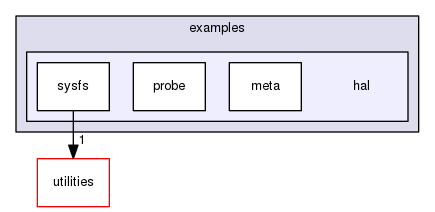
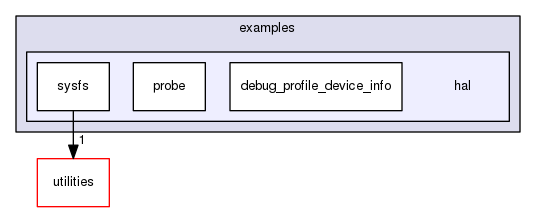
rename meta example

diff --git a/docs/html/debug__profile__device__info_2main_8cpp.html b/docs/html/debug__profile__device__info_2main_8cpp.html
@@ -1,0 +1,162 @@
+<!DOCTYPE html PUBLIC "-//W3C//DTD XHTML 1.0 Transitional//EN" "http://www.w3.org/TR/xhtml1/DTD/xhtml1-transitional.dtd">
+<html xmlns="http://www.w3.org/1999/xhtml">
+<head>
+<meta http-equiv="Content-Type" content="text/xhtml;charset=UTF-8"/>
+<meta http-equiv="X-UA-Compatible" content="IE=9"/>
+<meta name="generator" content="Doxygen 1.8.11"/>
+<title>xdev: xdev/dev/xrt/examples/hal/debug_profile_device_info/main.cpp File Reference</title>
+<link href="tabs.css" rel="stylesheet" type="text/css"/>
+<script type="text/javascript" src="jquery.js"></script>
+<script type="text/javascript" src="dynsections.js"></script>
+<link href="search/search.css" rel="stylesheet" type="text/css"/>
+<script type="text/javascript" src="search/searchdata.js"></script>
+<script type="text/javascript" src="search/search.js"></script>
+<script type="text/javascript">
+  $(document).ready(function() { init_search(); });
+</script>
+<link href="doxygen.css" rel="stylesheet" type="text/css" />
+</head>
+<body>
+<div id="top"><!-- do not remove this div, it is closed by doxygen! -->
+<div id="titlearea">
+<table cellspacing="0" cellpadding="0">
+ <tbody>
+ <tr style="height: 56px;">
+  <td id="projectalign" style="padding-left: 0.5em;">
+   <div id="projectname">xdev
+   </div>
+  </td>
+ </tr>
+ </tbody>
+</table>
+</div>
+<!-- end header part -->
+<!-- Generated by Doxygen 1.8.11 -->
+<script type="text/javascript">
+var searchBox = new SearchBox("searchBox", "search",false,'Search');
+</script>
+  <div id="navrow1" class="tabs">
+    <ul class="tablist">
+      <li><a href="index.html"><span>Main&#160;Page</span></a></li>
+      <li class="current"><a href="files.html"><span>Files</span></a></li>
+      <li>
+        <div id="MSearchBox" class="MSearchBoxInactive">
+        <span class="left">
+          <img id="MSearchSelect" src="search/mag_sel.png"
+               onmouseover="return searchBox.OnSearchSelectShow()"
+               onmouseout="return searchBox.OnSearchSelectHide()"
+               alt=""/>
+          <input type="text" id="MSearchField" value="Search" accesskey="S"
+               onfocus="searchBox.OnSearchFieldFocus(true)" 
+               onblur="searchBox.OnSearchFieldFocus(false)" 
+               onkeyup="searchBox.OnSearchFieldChange(event)"/>
+          </span><span class="right">
+            <a id="MSearchClose" href="javascript:searchBox.CloseResultsWindow()"><img id="MSearchCloseImg" border="0" src="search/close.png" alt=""/></a>
+          </span>
+        </div>
+      </li>
+    </ul>
+  </div>
+  <div id="navrow2" class="tabs2">
+    <ul class="tablist">
+      <li><a href="files.html"><span>File&#160;List</span></a></li>
+      <li><a href="globals.html"><span>File&#160;Members</span></a></li>
+    </ul>
+  </div>
+<!-- window showing the filter options -->
+<div id="MSearchSelectWindow"
+     onmouseover="return searchBox.OnSearchSelectShow()"
+     onmouseout="return searchBox.OnSearchSelectHide()"
+     onkeydown="return searchBox.OnSearchSelectKey(event)">
+</div>
+
+<!-- iframe showing the search results (closed by default) -->
+<div id="MSearchResultsWindow">
+<iframe src="javascript:void(0)" frameborder="0" 
+        name="MSearchResults" id="MSearchResults">
+</iframe>
+</div>
+
+<div id="nav-path" class="navpath">
+  <ul>
+<li class="navelem"><a class="el" href="dir_d18afa9345f000f65ca1f65ff9bd6be2.html">xdev</a></li><li class="navelem"><a class="el" href="dir_9e41302a9f2ea061056861038e396dc2.html">dev</a></li><li class="navelem"><a class="el" href="dir_d0d060ddee06a0444c00c06d57c50174.html">xrt</a></li><li class="navelem"><a class="el" href="dir_a0d88962fda9ae0239c619ad3390706e.html">examples</a></li><li class="navelem"><a class="el" href="dir_4b5d70dd59c81fb7f13f1c81ec266a14.html">hal</a></li><li class="navelem"><a class="el" href="dir_dec56c6a80e9fbcd27e4988ce258e305.html">debug_profile_device_info</a></li>  </ul>
+</div>
+</div><!-- top -->
+<div class="header">
+  <div class="summary">
+<a href="#func-members">Functions</a>  </div>
+  <div class="headertitle">
+<div class="title">main.cpp File Reference</div>  </div>
+</div><!--header-->
+<div class="contents">
+<div class="textblock"><code>#include &quot;xclhal2.h&quot;</code><br />
+<code>#include &quot;xclperf.h&quot;</code><br />
+<code>#include &quot;easylogging++.h&quot;</code><br />
+<code>#include &lt;iostream&gt;</code><br />
+</div><div class="textblock"><div class="dynheader">
+Include dependency graph for main.cpp:</div>
+<div class="dyncontent">
+<div class="center"><img src="debug__profile__device__info_2main_8cpp__incl.png" border="0" usemap="#xdev_2dev_2xrt_2examples_2hal_2debug__profile__device__info_2main_8cpp" alt=""/></div>
+<map name="xdev_2dev_2xrt_2examples_2hal_2debug__profile__device__info_2main_8cpp" id="xdev_2dev_2xrt_2examples_2hal_2debug__profile__device__info_2main_8cpp">
+</map>
+</div>
+</div><table class="memberdecls">
+<tr class="heading"><td colspan="2"><h2 class="groupheader"><a name="func-members"></a>
+Functions</h2></td></tr>
+<tr class="memitem:a0ddf1224851353fc92bfbff6f499fa97"><td class="memItemLeft" align="right" valign="top">int&#160;</td><td class="memItemRight" valign="bottom"><a class="el" href="debug__profile__device__info_2main_8cpp.html#a0ddf1224851353fc92bfbff6f499fa97">main</a> (int argc, char *argv[])</td></tr>
+<tr class="separator:a0ddf1224851353fc92bfbff6f499fa97"><td class="memSeparator" colspan="2">&#160;</td></tr>
+</table>
+<h2 class="groupheader">Function Documentation</h2>
+<a class="anchor" id="a0ddf1224851353fc92bfbff6f499fa97"></a>
+<div class="memitem">
+<div class="memproto">
+      <table class="memname">
+        <tr>
+          <td class="memname">int main </td>
+          <td>(</td>
+          <td class="paramtype">int&#160;</td>
+          <td class="paramname"><em>argc</em>, </td>
+        </tr>
+        <tr>
+          <td class="paramkey"></td>
+          <td></td>
+          <td class="paramtype">char *&#160;</td>
+          <td class="paramname"><em>argv</em>[]&#160;</td>
+        </tr>
+        <tr>
+          <td></td>
+          <td>)</td>
+          <td></td><td></td>
+        </tr>
+      </table>
+</div><div class="memdoc">
+<h1><a class="anchor" id="main"></a>
+Debug &amp; Profile Device Info API demo</h1>
+<dl class="section author"><dt>Author</dt><dd>Tianhao Zhou</dd></dl>
+<dl class="section date"><dt>Date</dt><dd>1/2/2019</dd></dl>
+<dl class="section version"><dt>Version</dt><dd>dev</dd></dl>
+<h2><a class="anchor" id="intro"></a>
+Introduction</h2>
+<p>This code snipet uses xclGetDebugProfileDeviceInfo with minimum amount of other APIs, making it a good tool for developing and debugging the API.</p>
+<h2><a class="anchor" id="steps"></a>
+Steps</h2>
+<ol type="1">
+<li>Probe</li>
+<li>Open 1 device at a time</li>
+<li>Get debug profile device info</li>
+<li>Print the info</li>
+<li>Close device </li>
+</ol>
+<dl class="section note"><dt>Note</dt><dd>START_EASYLOGGINGPP is the entry point to easyloggingpp which should be called only once before any logging</dd></dl>
+
+</div>
+</div>
+</div><!-- contents -->
+<!-- start footer part -->
+<hr class="footer"/><address class="footer"><small>
+Generated by &#160;<a href="http://www.doxygen.org/index.html">
+<img class="footer" src="doxygen.png" alt="doxygen"/>
+</a> 1.8.11
+</small></address>
+</body>
+</html>

diff --git a/docs/html/dir_dec56c6a80e9fbcd27e4988ce258e305.html b/docs/html/dir_dec56c6a80e9fbcd27e4988ce258e305.html
@@ -4,7 +4,7 @@
 <meta http-equiv="Content-Type" content="text/xhtml;charset=UTF-8"/>
 <meta http-equiv="X-UA-Compatible" content="IE=9"/>
 <meta name="generator" content="Doxygen 1.8.11"/>
-<title>xdev: File Members</title>
+<title>xdev: xdev/dev/xrt/examples/hal/debug_profile_device_info Directory Reference</title>
 <link href="tabs.css" rel="stylesheet" type="text/css"/>
 <script type="text/javascript" src="jquery.js"></script>
 <script type="text/javascript" src="dynsections.js"></script>
@@ -59,18 +59,10 @@ var searchBox = new SearchBox("searchBox", "search",false,'Search');
   </div>
   <div id="navrow2" class="tabs2">
     <ul class="tablist">
-      <li><a href="files.html"><span>File&#160;List</span></a></li>
-      <li class="current"><a href="globals.html"><span>File&#160;Members</span></a></li>
+      <li class="current"><a href="files.html"><span>File&#160;List</span></a></li>
+      <li><a href="globals.html"><span>File&#160;Members</span></a></li>
     </ul>
   </div>
-  <div id="navrow3" class="tabs2">
-    <ul class="tablist">
-      <li class="current"><a href="globals.html"><span>All</span></a></li>
-      <li><a href="globals_func.html"><span>Functions</span></a></li>
-      <li><a href="globals_defs.html"><span>Macros</span></a></li>
-    </ul>
-  </div>
-</div><!-- top -->
 <!-- window showing the filter options -->
 <div id="MSearchSelectWindow"
      onmouseover="return searchBox.OnSearchSelectShow()"
@@ -85,45 +77,22 @@ var searchBox = new SearchBox("searchBox", "search",false,'Search');
 </iframe>
 </div>
 
+<div id="nav-path" class="navpath">
+  <ul>
+<li class="navelem"><a class="el" href="dir_d18afa9345f000f65ca1f65ff9bd6be2.html">xdev</a></li><li class="navelem"><a class="el" href="dir_9e41302a9f2ea061056861038e396dc2.html">dev</a></li><li class="navelem"><a class="el" href="dir_d0d060ddee06a0444c00c06d57c50174.html">xrt</a></li><li class="navelem"><a class="el" href="dir_a0d88962fda9ae0239c619ad3390706e.html">examples</a></li><li class="navelem"><a class="el" href="dir_4b5d70dd59c81fb7f13f1c81ec266a14.html">hal</a></li><li class="navelem"><a class="el" href="dir_dec56c6a80e9fbcd27e4988ce258e305.html">debug_profile_device_info</a></li>  </ul>
+</div>
+</div><!-- top -->
+<div class="header">
+  <div class="headertitle">
+<div class="title">debug_profile_device_info Directory Reference</div>  </div>
+</div><!--header-->
 <div class="contents">
-<div class="textblock">Here is a list of all documented file members with links to the documentation:</div><ul>
-<li>copy_kernel()
-: <a class="el" href="copy__kernel_8cl.html#a89d6f95bae34f6be648f456abd1bb231">copy_kernel.cl</a>
-</li>
-<li>DEFAULT_XCLBIN_REPO
-: <a class="el" href="config_8hpp.html#a04b7a27b52fd5383694ab939e9c45d4c">config.hpp</a>
-</li>
-<li>file_exist()
-: <a class="el" href="filesystem__helper_8hpp.html#abcb9a23c28138e41d8a19eca285546fe">filesystem_helper.hpp</a>
-</li>
-<li>get_environment_variable()
-: <a class="el" href="environment__helper_8hpp.html#aecf688e0e5f4f5ee61caf9f0c1578008">environment_helper.hpp</a>
-</li>
-<li>hello_kernel()
-: <a class="el" href="hello__kernel_8cl.html#aa6834848decef5da8623654e3ede5118">hello_kernel.cl</a>
-</li>
-<li>load_xclbin_with_hal_api()
-: <a class="el" href="xclbin__helper_8hpp.html#a6cd63f24c0fe661e7e0c318bfe5a23e5">xclbin_helper.hpp</a>
-</li>
-<li>main()
-: <a class="el" href="debug__profile__device__info_2main_8cpp.html#a0ddf1224851353fc92bfbff6f499fa97">main.cpp</a>
-</li>
-<li>MAX_DEBUG_IP_LAYOUT_SIZE
-: <a class="el" href="config_8hpp.html#a6180b66cb9f6a7b87262e38996479f85">config.hpp</a>
-</li>
-<li>search_xclbin_repository()
-: <a class="el" href="xclbin__repo__helper_8hpp.html#a214cd63d273601247231eb4efee47a60">xclbin_repo_helper.hpp</a>
-</li>
-<li>TEST()
-: <a class="el" href="debug__profile__device__info_2test_8cpp.html#a4438a2ad3930edfb0ddf54150b5dbe09">test.cpp</a>
-</li>
-<li>vadd_kernel()
-: <a class="el" href="vadd__kernel_8cl.html#a393d410e1d55a97d45582eb380616867">vadd_kernel.cl</a>
-</li>
-<li>XCLBIN_REPO_ENV
-: <a class="el" href="config_8hpp.html#a218ed66169d4f26628825dff04b68f09">config.hpp</a>
-</li>
-</ul>
+<table class="memberdecls">
+<tr class="heading"><td colspan="2"><h2 class="groupheader"><a name="files"></a>
+Files</h2></td></tr>
+<tr class="memitem:debug__profile__device__info_2main_8cpp"><td class="memItemLeft" align="right" valign="top">file &#160;</td><td class="memItemRight" valign="bottom"><a class="el" href="debug__profile__device__info_2main_8cpp.html">main.cpp</a></td></tr>
+<tr class="separator:"><td class="memSeparator" colspan="2">&#160;</td></tr>
+</table>
 </div><!-- contents -->
 <!-- start footer part -->
 <hr class="footer"/><address class="footer"><small>

diff --git a/docs/html/files.html b/docs/html/files.html
@@ -101,8 +101,8 @@ var searchBox = new SearchBox("searchBox", "search",false,'Search');
 <tr id="row_1_0_1_"><td class="entry"><span style="width:32px;display:inline-block;">&#160;</span><span id="arr_1_0_1_" class="arrow" onclick="toggleFolder('1_0_1_')">&#9660;</span><span id="img_1_0_1_" class="iconfopen" onclick="toggleFolder('1_0_1_')">&#160;</span><a class="el" href="dir_d0d060ddee06a0444c00c06d57c50174.html" target="_self">xrt</a></td><td class="desc"></td></tr>
 <tr id="row_1_0_1_0_" class="even"><td class="entry"><span style="width:48px;display:inline-block;">&#160;</span><span id="arr_1_0_1_0_" class="arrow" onclick="toggleFolder('1_0_1_0_')">&#9660;</span><span id="img_1_0_1_0_" class="iconfopen" onclick="toggleFolder('1_0_1_0_')">&#160;</span><a class="el" href="dir_a0d88962fda9ae0239c619ad3390706e.html" target="_self">examples</a></td><td class="desc"></td></tr>
 <tr id="row_1_0_1_0_0_"><td class="entry"><span style="width:64px;display:inline-block;">&#160;</span><span id="arr_1_0_1_0_0_" class="arrow" onclick="toggleFolder('1_0_1_0_0_')">&#9660;</span><span id="img_1_0_1_0_0_" class="iconfopen" onclick="toggleFolder('1_0_1_0_0_')">&#160;</span><a class="el" href="dir_4b5d70dd59c81fb7f13f1c81ec266a14.html" target="_self">hal</a></td><td class="desc"></td></tr>
-<tr id="row_1_0_1_0_0_0_" class="even"><td class="entry"><span style="width:80px;display:inline-block;">&#160;</span><span id="arr_1_0_1_0_0_0_" class="arrow" onclick="toggleFolder('1_0_1_0_0_0_')">&#9660;</span><span id="img_1_0_1_0_0_0_" class="iconfopen" onclick="toggleFolder('1_0_1_0_0_0_')">&#160;</span><a class="el" href="dir_8db7bd0c4bd015cf4c705ca3bc478f9f.html" target="_self">meta</a></td><td class="desc"></td></tr>
-<tr id="row_1_0_1_0_0_0_0_"><td class="entry"><span style="width:112px;display:inline-block;">&#160;</span><span class="icondoc"></span><a class="el" href="meta_2main_8cpp.html" target="_self">main.cpp</a></td><td class="desc"></td></tr>
+<tr id="row_1_0_1_0_0_0_" class="even"><td class="entry"><span style="width:80px;display:inline-block;">&#160;</span><span id="arr_1_0_1_0_0_0_" class="arrow" onclick="toggleFolder('1_0_1_0_0_0_')">&#9660;</span><span id="img_1_0_1_0_0_0_" class="iconfopen" onclick="toggleFolder('1_0_1_0_0_0_')">&#160;</span><a class="el" href="dir_dec56c6a80e9fbcd27e4988ce258e305.html" target="_self">debug_profile_device_info</a></td><td class="desc"></td></tr>
+<tr id="row_1_0_1_0_0_0_0_"><td class="entry"><span style="width:112px;display:inline-block;">&#160;</span><span class="icondoc"></span><a class="el" href="debug__profile__device__info_2main_8cpp.html" target="_self">main.cpp</a></td><td class="desc"></td></tr>
 <tr id="row_1_0_1_0_0_1_" class="even"><td class="entry"><span style="width:80px;display:inline-block;">&#160;</span><span id="arr_1_0_1_0_0_1_" class="arrow" onclick="toggleFolder('1_0_1_0_0_1_')">&#9660;</span><span id="img_1_0_1_0_0_1_" class="iconfopen" onclick="toggleFolder('1_0_1_0_0_1_')">&#160;</span><a class="el" href="dir_34a5ee4845535f4b5bd3c7760fcc68b4.html" target="_self">probe</a></td><td class="desc"></td></tr>
 <tr id="row_1_0_1_0_0_1_0_"><td class="entry"><span style="width:112px;display:inline-block;">&#160;</span><span class="icondoc"></span><a class="el" href="probe_2main_8cpp.html" target="_self">main.cpp</a></td><td class="desc"></td></tr>
 <tr id="row_1_0_1_0_0_2_" class="even"><td class="entry"><span style="width:80px;display:inline-block;">&#160;</span><span id="arr_1_0_1_0_0_2_" class="arrow" onclick="toggleFolder('1_0_1_0_0_2_')">&#9660;</span><span id="img_1_0_1_0_0_2_" class="iconfopen" onclick="toggleFolder('1_0_1_0_0_2_')">&#160;</span><a class="el" href="dir_ebbe0f7260257c22f444213fb14258f3.html" target="_self">sysfs</a></td><td class="desc"></td></tr>

diff --git a/docs/html/dir_4b5d70dd59c81fb7f13f1c81ec266a14.html b/docs/html/dir_4b5d70dd59c81fb7f13f1c81ec266a14.html
@@ -92,13 +92,13 @@ Directory dependency graph for hal:</div>
 <div class="dyncontent">
 <div class="center"><img src="dir_4b5d70dd59c81fb7f13f1c81ec266a14_dep.png" border="0" usemap="#dir__4b5d70dd59c81fb7f13f1c81ec266a14__dep" alt="xdev/dev/xrt/examples/hal"/></div>
 <map name="dir__4b5d70dd59c81fb7f13f1c81ec266a14__dep" id="dir__4b5d70dd59c81fb7f13f1c81ec266a14__dep">
-<area shape="rect" id="node2" href="dir_8db7bd0c4bd015cf4c705ca3bc478f9f.html" title="meta" alt="" coords="229,63,301,111"/>
+<area shape="rect" id="node2" href="dir_dec56c6a80e9fbcd27e4988ce258e305.html" title="debug_profile_device_info" alt="" coords="230,63,402,111"/>
 <area shape="rect" id="node3" href="dir_34a5ee4845535f4b5bd3c7760fcc68b4.html" title="probe" alt="" coords="133,63,205,111"/>
 <area shape="rect" id="node4" href="dir_ebbe0f7260257c22f444213fb14258f3.html" title="sysfs" alt="" coords="37,63,109,111"/>
 <area shape="rect" id="node5" href="dir_ed2c300cef3ba38e12ed88d64adacf44.html" title="utilities" alt="" coords="37,159,109,207"/>
 <area shape="rect" id="edge1-headlabel" href="dir_000013_000014.html" title="1" alt="" coords="78,133,86,148"/>
-<area shape="rect" id="clust2" href="dir_4b5d70dd59c81fb7f13f1c81ec266a14.html" alt="" coords="27,52,408,121"/>
-<area shape="rect" id="clust1" href="dir_a0d88962fda9ae0239c619ad3390706e.html" title="examples" alt="" coords="16,16,419,132"/>
+<area shape="rect" id="clust2" href="dir_4b5d70dd59c81fb7f13f1c81ec266a14.html" alt="" coords="27,52,509,121"/>
+<area shape="rect" id="clust1" href="dir_a0d88962fda9ae0239c619ad3390706e.html" title="examples" alt="" coords="16,16,520,132"/>
 </map>
 </div>
 <table class="memberdecls">

diff --git a/docs/html/search/all_7.js b/docs/html/search/all_7.js
@@ -1,7 +1,7 @@
 var searchData=
 [
-  ['main',['main',['../meta_2main_8cpp.html#a0ddf1224851353fc92bfbff6f499fa97',1,'main(int argc, char *argv[]):&#160;main.cpp'],['../probe_2main_8cpp.html#a0ddf1224851353fc92bfbff6f499fa97',1,'main(int argc, char *argv[]):&#160;main.cpp'],['../sysfs_2main_8cpp.html#a0ddf1224851353fc92bfbff6f499fa97',1,'main(int argc, char *argv[]):&#160;main.cpp']]],
-  ['main_2ecpp',['main.cpp',['../meta_2main_8cpp.html',1,'']]],
+  ['main',['main',['../debug__profile__device__info_2main_8cpp.html#a0ddf1224851353fc92bfbff6f499fa97',1,'main(int argc, char *argv[]):&#160;main.cpp'],['../probe_2main_8cpp.html#a0ddf1224851353fc92bfbff6f499fa97',1,'main(int argc, char *argv[]):&#160;main.cpp'],['../sysfs_2main_8cpp.html#a0ddf1224851353fc92bfbff6f499fa97',1,'main(int argc, char *argv[]):&#160;main.cpp']]],
+  ['main_2ecpp',['main.cpp',['../debug__profile__device__info_2main_8cpp.html',1,'']]],
   ['main_2ecpp',['main.cpp',['../probe_2main_8cpp.html',1,'']]],
   ['main_2ecpp',['main.cpp',['../sysfs_2main_8cpp.html',1,'']]],
   ['max_5fdebug_5fip_5flayout_5fsize',['MAX_DEBUG_IP_LAYOUT_SIZE',['../config_8hpp.html#a6180b66cb9f6a7b87262e38996479f85',1,'config.hpp']]]

diff --git a/docs/html/search/functions_5.js b/docs/html/search/functions_5.js
@@ -1,4 +1,4 @@
 var searchData=
 [
-  ['main',['main',['../meta_2main_8cpp.html#a0ddf1224851353fc92bfbff6f499fa97',1,'main(int argc, char *argv[]):&#160;main.cpp'],['../probe_2main_8cpp.html#a0ddf1224851353fc92bfbff6f499fa97',1,'main(int argc, char *argv[]):&#160;main.cpp'],['../sysfs_2main_8cpp.html#a0ddf1224851353fc92bfbff6f499fa97',1,'main(int argc, char *argv[]):&#160;main.cpp']]]
+  ['main',['main',['../debug__profile__device__info_2main_8cpp.html#a0ddf1224851353fc92bfbff6f499fa97',1,'main(int argc, char *argv[]):&#160;main.cpp'],['../probe_2main_8cpp.html#a0ddf1224851353fc92bfbff6f499fa97',1,'main(int argc, char *argv[]):&#160;main.cpp'],['../sysfs_2main_8cpp.html#a0ddf1224851353fc92bfbff6f499fa97',1,'main(int argc, char *argv[]):&#160;main.cpp']]]
 ];

diff --git a/docs/html/globals_func.html b/docs/html/globals_func.html
@@ -103,7 +103,7 @@ var searchBox = new SearchBox("searchBox", "search",false,'Search');
 : <a class="el" href="xclbin__helper_8hpp.html#a6cd63f24c0fe661e7e0c318bfe5a23e5">xclbin_helper.hpp</a>
 </li>
 <li>main()
-: <a class="el" href="meta_2main_8cpp.html#a0ddf1224851353fc92bfbff6f499fa97">main.cpp</a>
+: <a class="el" href="debug__profile__device__info_2main_8cpp.html#a0ddf1224851353fc92bfbff6f499fa97">main.cpp</a>
 </li>
 <li>search_xclbin_repository()
 : <a class="el" href="xclbin__repo__helper_8hpp.html#a214cd63d273601247231eb4efee47a60">xclbin_repo_helper.hpp</a>

diff --git a/docs/html/search/files_4.js b/docs/html/search/files_4.js
@@ -1,6 +1,6 @@
 var searchData=
 [
-  ['main_2ecpp',['main.cpp',['../meta_2main_8cpp.html',1,'']]],
+  ['main_2ecpp',['main.cpp',['../debug__profile__device__info_2main_8cpp.html',1,'']]],
   ['main_2ecpp',['main.cpp',['../sysfs_2main_8cpp.html',1,'']]],
   ['main_2ecpp',['main.cpp',['../probe_2main_8cpp.html',1,'']]]
 ];
